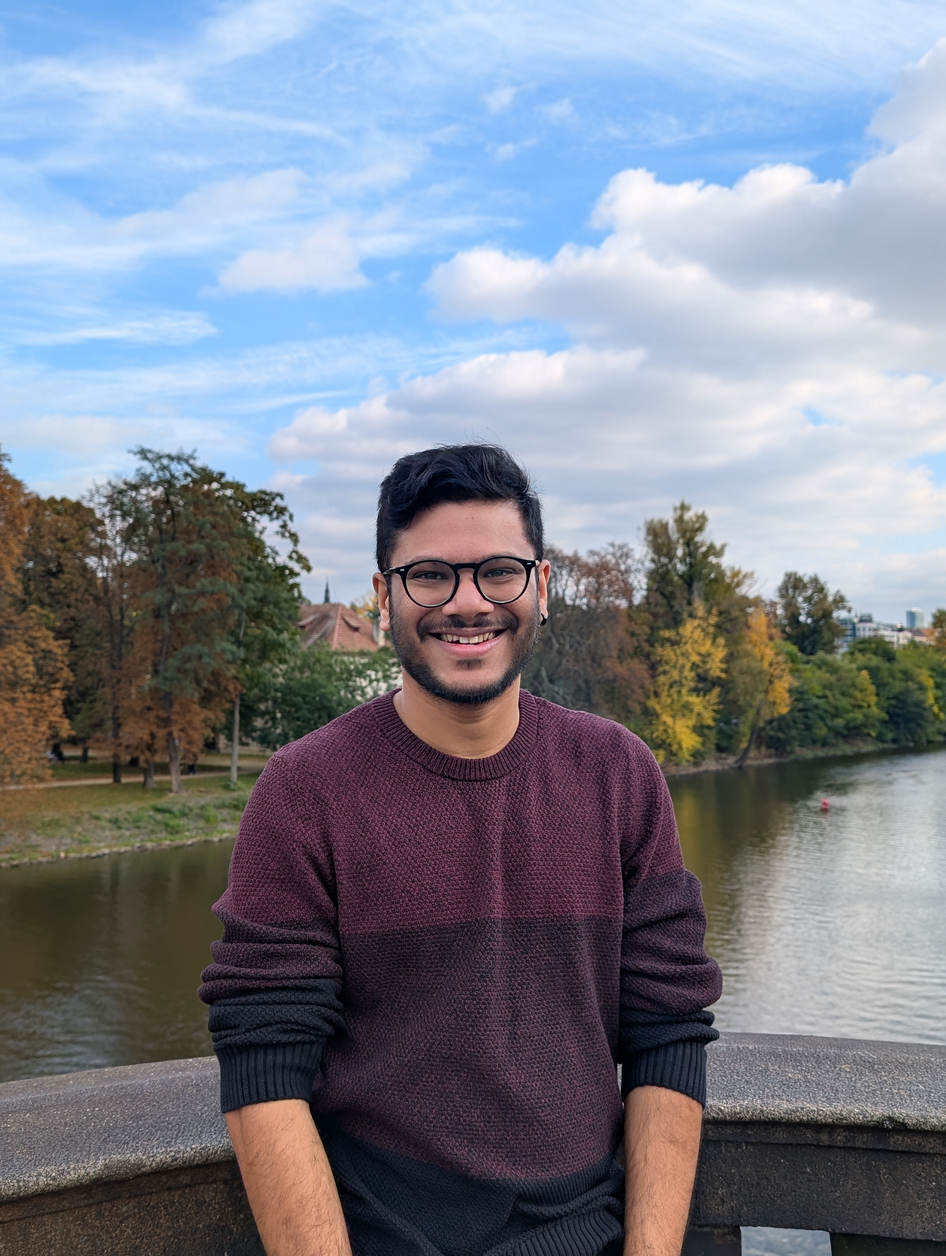
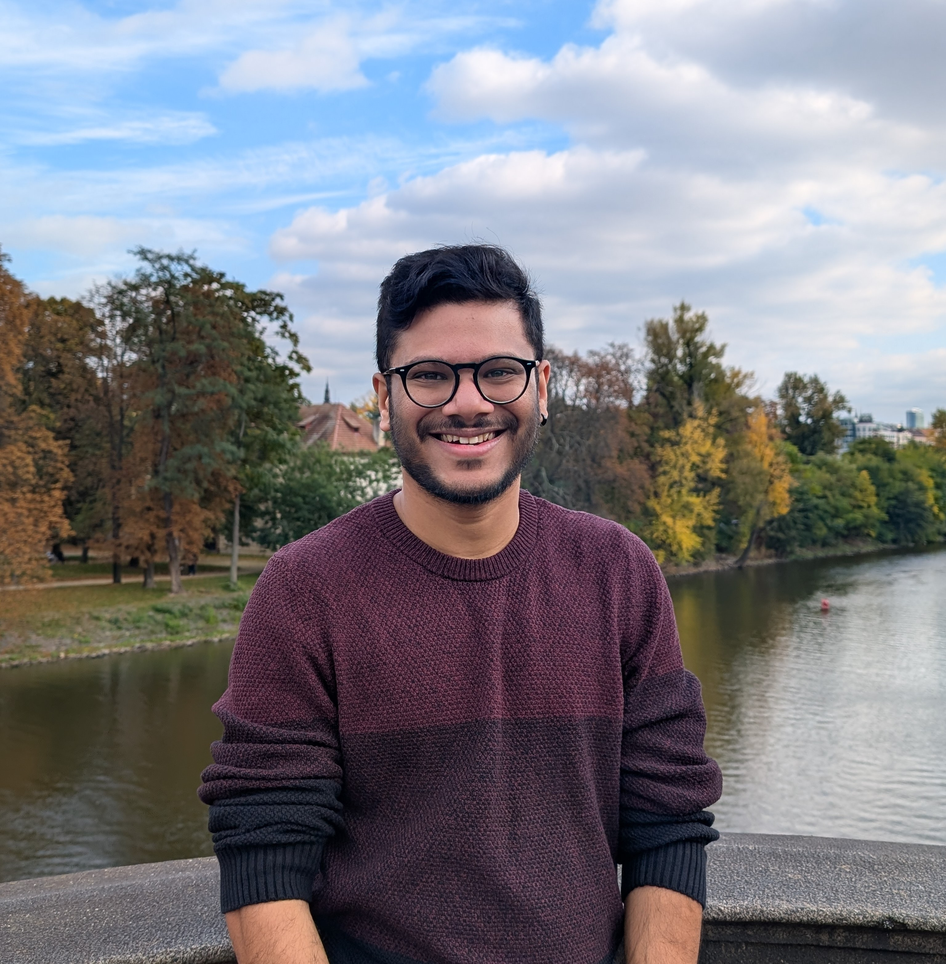
Update about.md title and remove unnecessary masthead item

diff --git a/_includes/masthead.html b/_includes/masthead.html
@@ -6,7 +6,6 @@
       <nav id="site-nav" class="greedy-nav">
         <button><div class="navicon"></div></button>
         <ul class="visible-links">
-          <li class="masthead__menu-item masthead__menu-item--lg persist"><a href="{{ base_path }}/">{{ site.title }}</a></li>
           {% for link in site.data.navigation.main %}
             {% if link.url contains 'http' %}
               {% assign domain = '' %}

diff --git a/_pages/about.md b/_pages/about.md
@@ -1,6 +1,6 @@
 ---
 permalink: /
-title: ""
+title: "Viju Sudhi"
 author_profile: true
 redirect_from: 
   - /about/
